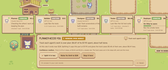
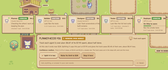
No note over the agent dashboard: the Agents button glows when it arrives instead of a toast, and any note centres beside an open side panel; shorter task names fit their plot labels
Claude-Session: https://claude.ai/code/session_01FfWYbTwy9gYwWfobhQYxtk

diff --git a/src/hud/Agents.tsx b/src/hud/Agents.tsx
@@ -2,7 +2,6 @@
 // It is what the demo run builds ("Replace the cost button with an agent dashboard"): once that run's release
 // reaches you, the top bar's coins become the Agents button, and it opens this.
 import './agents.css'
-import { useEffect } from 'react'
 import { Ico, Portrait, usd } from './bits'
 import { store, type Project } from '../run/store'
 import { scenario } from '../run/simPlan'
@@ -28,20 +27,10 @@ const STATE: Record<FarmerRun['state'], { label: string; tone: string }> = {
 const crewOf = (s: RunState) => FARMER_ORDER.filter((id) => s.farmers[id]).map((id) => s.farmers[id]!)
 
 // The top-bar button: the faces of the crew and how many are busy right now.
-// Said once per farm per visit, the first time the release puts the dashboard in front of you.
-const announced = new Set<string>()
-const ARRIVED = 'the Agents button has replaced the coins'
-
-export function AgentsButton({ p, s, className, label, onClick }: { p: Project; s: RunState; className: string; label?: string; onClick: () => void }) {
+export function AgentsButton({ s, className, label, onClick }: { s: RunState; className: string; label?: string; onClick: () => void }) {
   const crew = crewOf(s)
   const busy = crew.filter((f) => f.state === 'working' || f.state === 'stuck').length
   const needs = crew.filter((f) => f.state === 'needs').length
-  const stage = s.deploy[s.deploy.length - 1]?.stage
-  useEffect(() => {
-    if (s.done || announced.has(p.id)) return
-    announced.add(p.id)
-    store.say(stage === '10%' ? `You’re in the first 10%: ${ARRIVED}. Open it to see every agent at work.` : `The Agents button has replaced the coins. Open it to see every agent at work.`)
-  }, [p.id])
   return (
     <button className={`${className} top-agents`} onClick={onClick} aria-label={`${label ?? 'Agents'}: ${busy} working${needs ? `, ${needs} need${needs === 1 ? 's' : ''} you` : ''}`}>
       <span className="agent-faces" aria-hidden>
@@ -58,13 +47,6 @@ export function AgentsButton({ p, s, className, label, onClick }: { p: Project; 
 }
 
 export function AgentsPanel({ s }: { s: RunState }) {
-  // Opening the dashboard is what its arrival note asked for, so the note goes rather than cover the panel's header.
-  useEffect(() => {
-    if (store.toast && store.toast.text.toLowerCase().includes(ARRIVED.toLowerCase())) {
-      store.toast = null
-      store.notify()
-    }
-  }, [])
   const crew = crewOf(s)
   const busy = crew.filter((f) => f.state === 'working' || f.state === 'stuck').length
   const needs = crew.filter((f) => f.state === 'needs').length

diff --git a/src/hud/agents.css b/src/hud/agents.css
@@ -1,7 +1,7 @@
 /* The agent dashboard and its top-bar button. Tokens and type from hud.css; nothing new. */
 
 /* top bar: the crew's faces, the word, and how many are busy */
-.top .top-agents { padding: 0 10px 0 6px; gap: 8px; animation: agents-arrive 520ms steps(4) both; }
+.top .top-agents { padding: 0 10px 0 6px; gap: 8px; animation: agents-arrive 520ms steps(4) both, agents-glow 1.2s steps(3) 600ms 3; }
 .top .top-agents .top-name { font-family: px7; font-size: 20px; line-height: 1; }
 .top .top-agents.named .top-name { display: inline; }
 .agent-faces { display: inline-flex; }
@@ -11,6 +11,7 @@
 .agent-face.idle, .agent-face.done { filter: saturate(.5); opacity: .8; }
 .agent-count { min-width: 22px; height: 22px; padding: 0 6px; border-radius: 11px; background: var(--leaf); color: #fff6e4; font: 700 13px/22px var(--ui); text-align: center; }
 .agent-count.needs { background: var(--berry); }
+@keyframes agents-glow { 0%, 100% { filter: none; } 50% { filter: drop-shadow(0 0 6px #f6d36a) drop-shadow(0 0 2px #f6d36a); } }
 @keyframes agents-arrive { 0% { transform: scale(.6); opacity: 0; } 60% { transform: scale(1.08); opacity: 1; } 100% { transform: scale(1); } }
 @media (prefers-reduced-motion: reduce) { .top .top-agents { animation: none; } }
 
@@ -37,3 +38,7 @@
 .agent-line { color: var(--bark-2); overflow: hidden; text-overflow: ellipsis; display: -webkit-box; -webkit-line-clamp: 2; -webkit-box-orient: vertical; }
 .agent-row.needs .agent-line { color: var(--bark); }
 .agent-foot { display: flex; align-items: baseline; justify-content: space-between; gap: 12px; font-size: var(--t-body); background: var(--paper); border-radius: 6px; padding: 8px 10px; font-variant-numeric: tabular-nums; }
+
+/* A note never covers an open side panel: it centres in the space left of the panel instead. */
+.stage:has(.side) .toast { left: calc((100% - 468px) / 2); max-width: calc(100% - 496px); }
+@media (max-width: 900px) { .stage:has(.side) .toast { left: 50%; max-width: none; } }

diff --git a/src/run/simPlan.ts b/src/run/simPlan.ts
@@ -170,10 +170,10 @@ function draft(goal: string): Draft {
     return {
       name: 'Agent dashboard',
       tasks: [
-        { id: 'agent-status', name: 'Track each agent’s work', farmer: 'builder', doneWhen: 'Each agent’s task, last step and spend update as the run plays', mins: 11, usd: 0.8 },
-        { id: 'swap-button', name: 'Swap the cost button for it', farmer: 'builder', doneWhen: 'The top-bar button opens the dashboard, and the coins on the farm still open your spend', mins: 7, usd: 0.5, after: ['agent-status'] },
-        { id: 'live-rows', name: 'Keep it live during the run', farmer: 'builder', doneWhen: 'The dashboard follows the run without slowing the farm', mins: 8, usd: 0.6, after: ['swap-button'] },
-        { id: 'dash-design', name: 'Design the agent dashboard', farmer: 'designer', doneWhen: 'Every agent’s task, last step and spend read at a glance, and nothing covers the ask window', mins: 12, usd: 0.8 },
+        { id: 'agent-status', name: 'Track each agent', farmer: 'builder', doneWhen: 'Each agent’s task, last step and spend update as the run plays', mins: 11, usd: 0.8 },
+        { id: 'swap-button', name: 'Swap the cost button', farmer: 'builder', doneWhen: 'The top-bar button opens the dashboard, and the coins on the farm still open your spend', mins: 7, usd: 0.5, after: ['agent-status'] },
+        { id: 'live-rows', name: 'Keep it live', farmer: 'builder', doneWhen: 'The dashboard follows the run without slowing the farm', mins: 8, usd: 0.6, after: ['swap-button'] },
+        { id: 'dash-design', name: 'Design the dashboard', farmer: 'designer', doneWhen: 'Every agent’s task, last step and spend read at a glance, and nothing covers the ask window', mins: 12, usd: 0.8 },
         { ...SHIP, doneWhen: 'Live for 10% with errors under 2%, then for everyone' },
       ],
       script: AGENT_DASH,

diff --git a/src/App.tsx b/src/App.tsx
@@ -223,7 +223,7 @@ function Top({ p, s }: { p: Project; s: RunState }) {
       </button>
     )
     // What the demo run built: once its release reaches you, the agent dashboard takes the spend counter's place.
-    if (agentsLive(p, s)) parts.agents = <AgentsButton key="agents" p={p} s={s} className={cls('agents')} label={look.label.agents} onClick={() => store.setDrawer({ kind: 'agents' })} />
+    if (agentsLive(p, s)) parts.agents = <AgentsButton key="agents" s={s} className={cls('agents')} label={look.label.agents} onClick={() => store.setDrawer({ kind: 'agents' })} />
     parts.play = (
       <button key="play" className={cls('play')} disabled={!!s.done} onClick={() => store.togglePlay()} aria-label={st.playing ? 'Pause' : 'Play'}>
         <Ico name={st.playing ? 'pause' : 'play'} size={ico('play')} />
